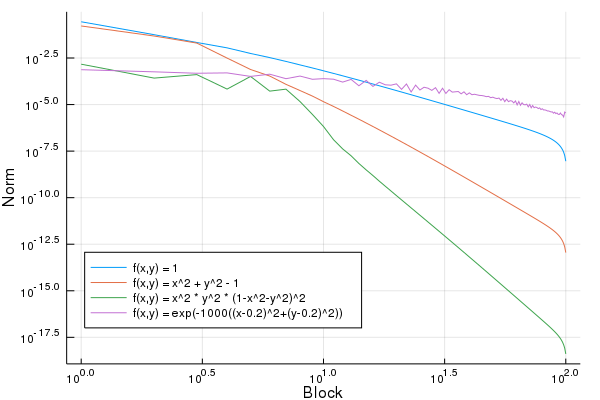
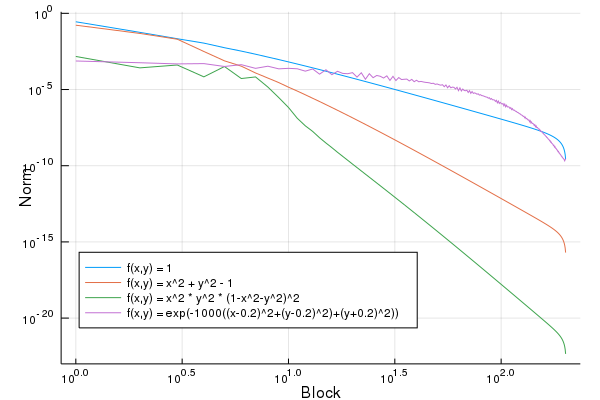
New figures. Comments added.

diff --git a/papers/halfdisk/halfdisk.tex b/papers/halfdisk/halfdisk.tex
@@ -295,8 +295,7 @@ w_2(x) &:= w_P^{(b)}(x) := (1-x^2)^b = (1-x)^b \: (1+x)^b,
 \end{align}
 Note here the we have made the adjustment that $\genjacw^{(a,b,c)}(x) = (\beta - x)^a \: (x - \alpha)^{b} \: \rho(x)^{2c}$ and simply set the first parameter to zero and removed it for the specific half-disk case. This is for ease of writing and computation, by ensuring we reduce the need to incorporate unnecessary parameters and instead yield a two-parameter family of 2D orthogonal polynomials. 
 
-The weight $w_2(x)$ is an ultraspherical weight, and the corresponding OPs are   the Jacobi polynomials  \(\{P_n^{(b, b)}\}\). The weight $w_1(x)$ is non-classical (it is in fact semi-classical, and is equivalent to a generalized Jacobi weight \cite[\S5]{magnus1995painleve}) and we introduce the notation \(\{\genjac_n^{(a, b)}\}\) for the orthonormal polynomials. Thus we arrive at  a two parameter family of 2D orthogonal polynomials\sotodo{We should probably use a different letter than $P$ to avoid confusion with Jacobi polynomials}
-\ \(\{\hdopnkab\}\) given by, for \(0 \le k \le n, \: n = 0,1,2,\dots,\)
+The weight $w_2(x)$ is an ultraspherical weight, and the corresponding OPs are   the Jacobi polynomials  \(\{P_n^{(b, b)}\}\). The weight $w_1(x)$ is non-classical (it is in fact semi-classical, and is equivalent to a generalized Jacobi weight \cite[\S5]{magnus1995painleve}) and we introduce the notation \(\{\genjac_n^{(a, b)}\}\) for the orthonormal polynomials. Thus we arrive at  a two parameter family of 2D orthogonal polynomials $\{\hdopnkab\}$ given by, for $0 \le k \le n, \: n = 0,1,2,\dots,$
 \begin{align}\label{eq:diskpolys}
  \hdopnk^{(a,b)}(x,y) := \genjacnmk^{(a, b+k+\half)}(x) \: \rho(x)^k \: P_k^{(b,b)}\fpr(\frac{y}{\rho(x)}), \quad (x,y) \in \Omega, 
 \end{align}
@@ -315,7 +314,7 @@ x \genjac_n^{(a,b)}(x) &= \beta_n^{(a,b)} \genjac_{n+1}^{(a,b)}(x) + \alpha_n^{(
 \label{eqn:Hrecurrence} \\
 y P_n^{(b,b)}(y) &= \delta_n^{(b)} P_{n+1}^{(b,b)}(y) + \gamma_n^{(b)} P_n^{(b,b)}(y) + \delta_{n-1}^{(b)} P_{n-1}^{(b,b)}(y),
 \end{align}
-where we note that \(\gamma_n^{(b)} = 0\), for \( n = 0,1,2,\dots\). We can use these to determine the 2D recurences for $\hdopnkab(x,y)$:
+where we note that \(\gamma_n^{(b)} = 0\), for \( n = 0,1,2,\dots\). We can use these to determine the 2D recurrences for $\hdopnkab(x,y)$:
 
 \begin{lemma}
 $\hdopnk^{(a,b)}(x,y)$ satisfy the following 3-term recurrences:
@@ -837,7 +836,7 @@ Calculating the non-zero entries of the parameter transformation operators is si
 	\label{fig:solution-biharmonic}
 	\end{subfigure}
 	\centering
-    	\caption{(a): The computed solution to $\Delta u = f$ with zero boundary conditions with $f(x,y) = 1 + \text{erf}(5(1 - 10((x - 0.5)^2 + y^2)))$. (b): The computed solution to $\Delta u + k^2 \: v \: u = f$ with zero boundary conditions with $f(x,y) = xye^x$, $v(x,y) = xy^2$ and $k = 0.25$ \sotodoinline{Make a lot higher}. (c): The computed solution to $\Delta^2 u = f$ with zero Dirichlet and Neumann boundary conditions with $f(x,y) = 1 + \text{erf}(5(1 - 10((x - 0.5)^2 + y^2)))$.}
+    	\caption{(a): The computed solution to $\Delta u = f$ with zero boundary conditions with $f(x,y) = 1 + \text{erf}(5(1 - 10((x - 0.5)^2 + y^2)))$. (b): The computed solution to $\Delta u + k^2 \: v \: u = f$ with zero boundary conditions with $f(x,y) = xye^x$, $v(x,y) = xy^2$ and $k = 200$. (c): The computed solution to $\Delta^2 u = f$ with zero Dirichlet and Neumann boundary conditions with $f(x,y) = 1 + \text{erf}(5(1 - 10((x - 0.5)^2 + y^2)))$.}
         \label{fig:solution}
 \end{figure}
 
@@ -856,12 +855,12 @@ We can tackle the problem as follows. Fix \(a, b = 1,1\). Denote the coefficient
     \laplacewii \mathbf{u} = \mathbf{f}
 \end{align}
 which can be solved to find $\mathbf{u}$.
-In Figure \ref{fig:solution-poisson} we see the solution to the Poisson equation with zero boundary conditions given in (\ref{eqn:poisson}) in the half-disk $\Omega$. In Figure \ref{fig:solutionblocknorms} we show the norms of each block of calculated coefficients of the approximation for four right-hand sides of the Poisson equation with N = 200, that is, 20,301 unknowns. The rate of decay in the coefficients is a proxy for the rate of convergence of the computed solution. We see that\bstodo{Describe what plot tells us}
+In Figure \ref{fig:solution-poisson} we see the solution to the Poisson equation with zero boundary conditions given in (\ref{eqn:poisson}) in the half-disk $\Omega$. In Figure \ref{fig:solutionblocknorms} we show the norms of each block of calculated coefficients of the approximation for four right-hand sides of the Poisson equation with N = 200, that is, 20,301 unknowns. The rate of decay in the coefficients is a proxy for the rate of convergence of the computed solution. We see that... \bstodoinline{Describe what plot tells us - I dont want to copy and paste your Triangle paper here but not sure what else to write}
 
 \begin{figure}
         	\includegraphics[scale=0.5]{solutionblocknorms}
 	\centering
-	\caption{The norms of each block of the computed solution of the Poisson equation with the given right hand side functions. This demonstrates algebraic convergence with the rate dictated by the decay at the corners, with spectral convergence observed when the right-hand side vanishes to all orders.  \sotodoinline{More blocks}}
+	\caption{The norms of each block of the computed solution of the Poisson equation with the given right hand side functions. This demonstrates algebraic convergence with the rate dictated by the decay at the corners, with spectral convergence observed when the right-hand side vanishes to all orders.  \bstodoinline{N=200 blocks here. When I have the time to run N=1000 or so I will do}}
         	\label{fig:solutionblocknorms}
 \end{figure}
 
